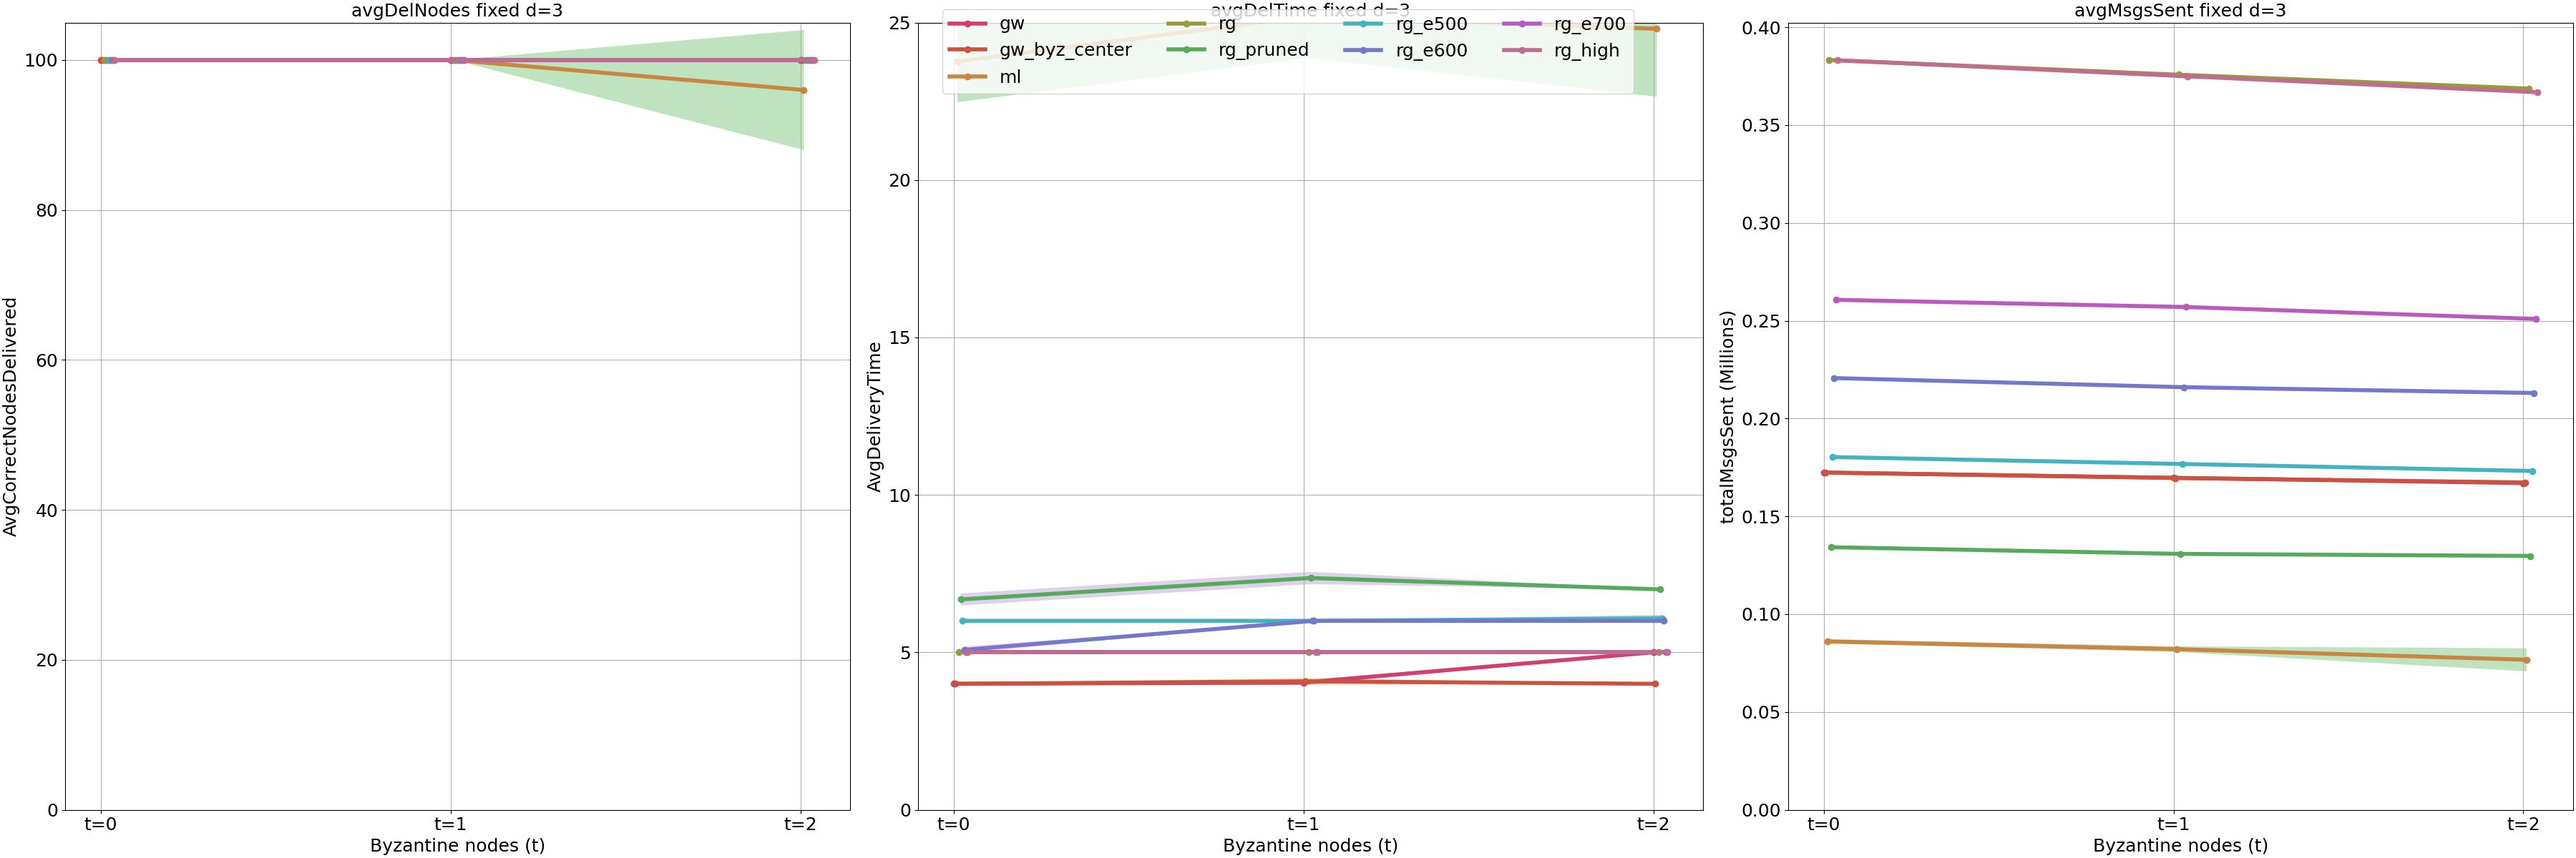
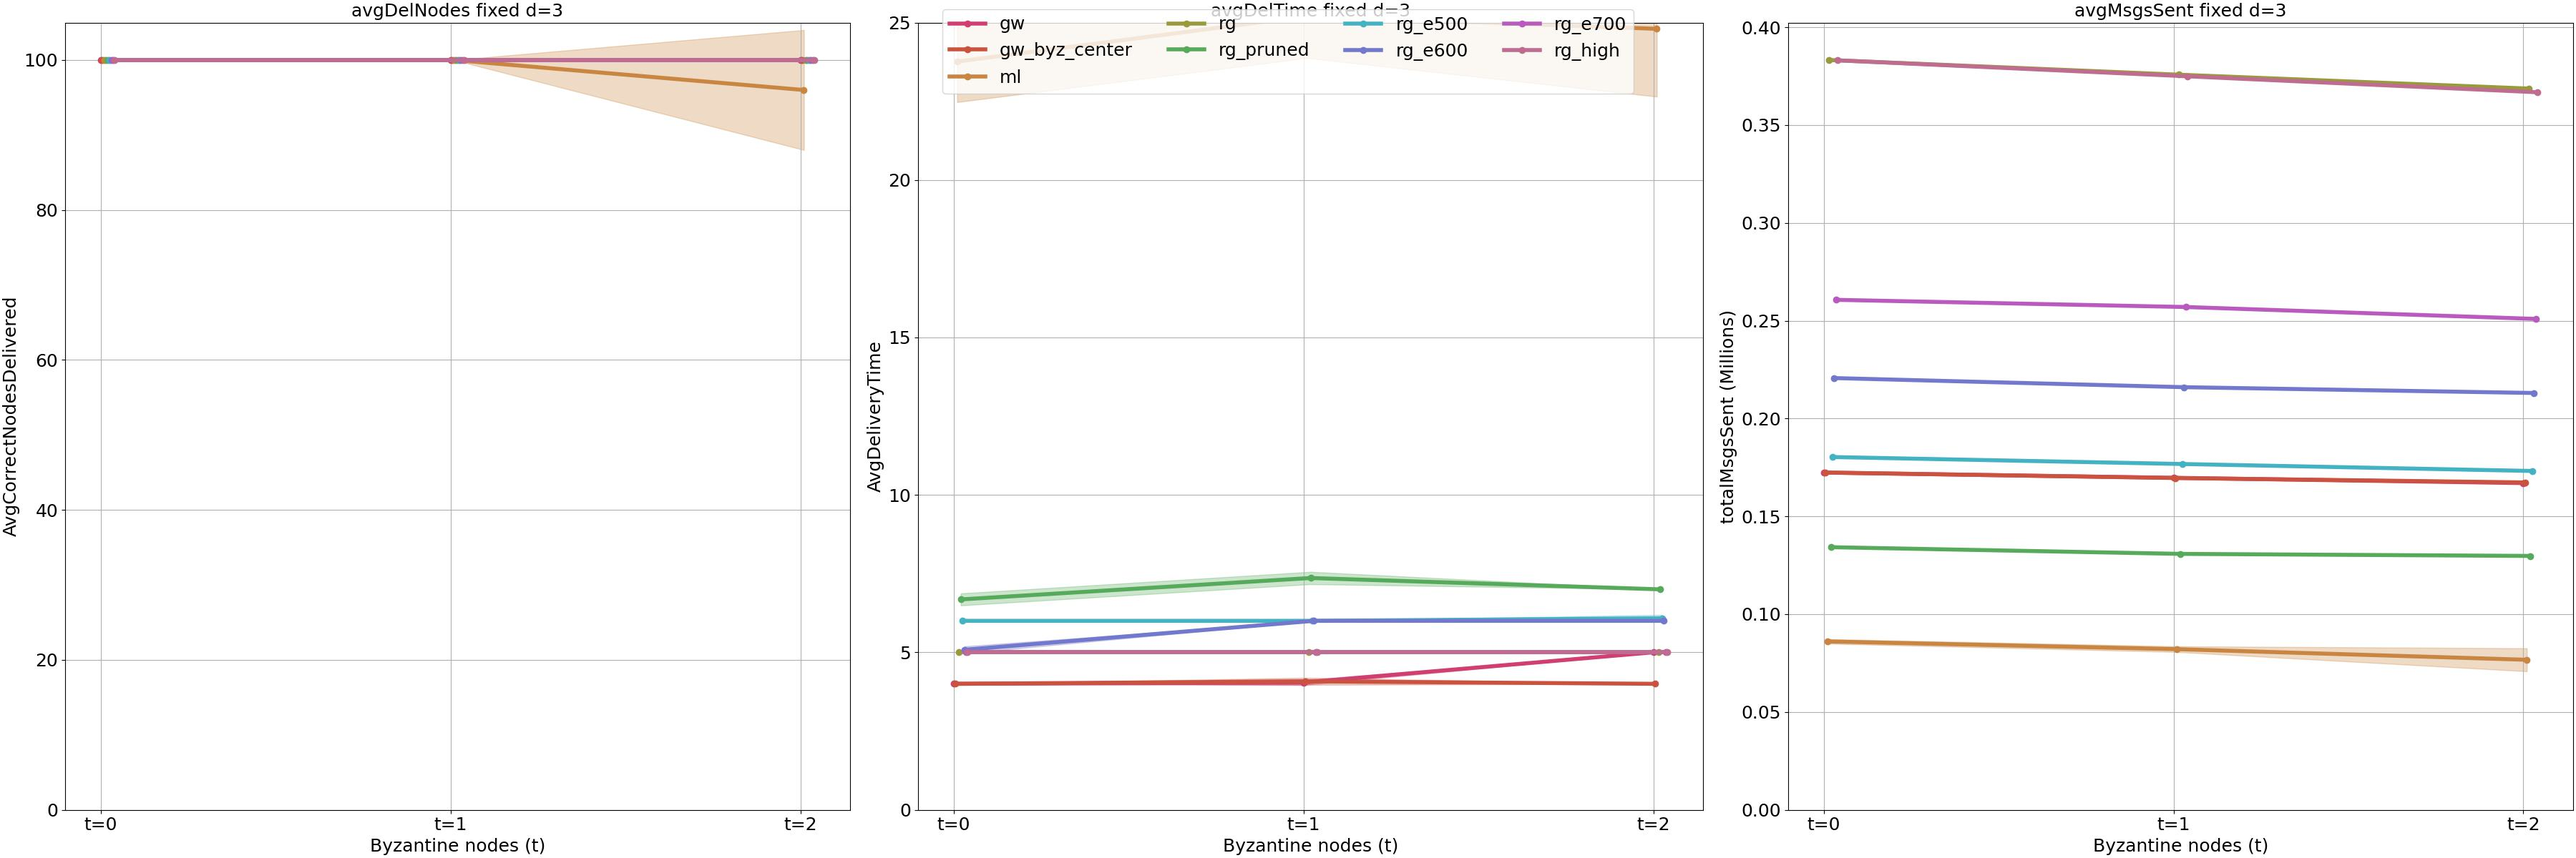
3d plot code

diff --git a/quantas/BRBPeer/evaluation_utils.py b/quantas/BRBPeer/evaluation_utils.py
@@ -243,7 +243,7 @@ def plot_2D(data, ma, alg, t_fix: int = -1, d_fix: int = -1):
         short_name = short_name.replace("random_graph","rg")
         short_name = short_name.replace("_n24_k4","").replace("_n100_k6","").replace("_n99_k6","")
         axs1.plot(x_shifted, y, marker='o', label=f"{short_name}", color=color_map[topology], linewidth=lw)
-        axs1.fill_between(x_shifted, lower_bounds, upper_bounds, alpha=0.3)
+        axs1.fill_between(x_shifted, lower_bounds, upper_bounds, color=color_map[topology], alpha=0.3)
         idx += 1
     
     axs1.set_title(title_delivery, fontsize=fs)
@@ -306,7 +306,7 @@ def plot_2D(data, ma, alg, t_fix: int = -1, d_fix: int = -1):
         short_name = short_name.replace("random_graph","rg")
         short_name = short_name.replace("_n24_k4","").replace("_n100_k6","").replace("_n99_k6","")
         axs1.plot(x_shifted, y, marker='o', label=f"{short_name}", color=color_map[topology], linewidth=lw)
-        axs1.fill_between(x_shifted, lower_bounds, upper_bounds, alpha=0.3)
+        axs1.fill_between(x_shifted, lower_bounds, upper_bounds, color=color_map[topology], alpha=0.3)
         idx += 1
     
     axs1.set_title(title_time, fontsize=fs)
@@ -372,7 +372,7 @@ def plot_2D(data, ma, alg, t_fix: int = -1, d_fix: int = -1):
         short_name = short_name.replace("random_graph","rg")
         short_name = short_name.replace("_n24_k4","").replace("_n100_k6","").replace("_n99_k6","")
         axs1.plot(x_shifted, y, marker='o', label=f"{short_name}", color=color_map[topology], linewidth=lw)
-        axs1.fill_between(x_shifted, lower_bounds, upper_bounds, alpha=0.3)
+        axs1.fill_between(x_shifted, lower_bounds, upper_bounds, color=color_map[topology], alpha=0.3)
         idx += 1
     
     axs1.set_title(title_msg, fontsize=fs)
@@ -476,7 +476,7 @@ def plot_2D_together(data, ma, alg, t_fix:int = -1, d_fix: int = -1):
                                .replace("_n24_k4", "").replace("_n100_k6", "").replace("_n99_k6", "")
 
         axs[0].plot(x_shifted, y, marker='o', label=short_name, color=color_map[topology], linewidth=lw)
-        axs[0].fill_between(x_shifted, lower_bounds, upper_bounds, alpha=0.3)
+        axs[0].fill_between(x_shifted, lower_bounds, upper_bounds, color=color_map[topology], alpha=0.3)
         idx += 1
 
     axs[0].set_title(title_delivery, fontsize=fs)
@@ -528,7 +528,7 @@ def plot_2D_together(data, ma, alg, t_fix:int = -1, d_fix: int = -1):
                              .replace("_n24_k4", "").replace("_n100_k6", "").replace("_n99_k6", "")
 
         axs[1].plot(x_shifted, y, marker='o', label=short_name, color=color_map[topology], linewidth=lw)
-        axs[1].fill_between(x_shifted, lower_bounds, upper_bounds, alpha=0.3)
+        axs[1].fill_between(x_shifted, lower_bounds, upper_bounds, color=color_map[topology], alpha=0.3)
         idx += 1
 
     axs[1].set_title(title_time, fontsize=fs)
@@ -586,7 +586,7 @@ def plot_2D_together(data, ma, alg, t_fix:int = -1, d_fix: int = -1):
                              .replace("_n24_k4", "").replace("_n100_k6", "").replace("_n99_k6", "")
 
         axs[2].plot(x_shifted, y, marker='o', label=short_name, color=color_map[topology], linewidth=lw)
-        axs[2].fill_between(x_shifted, lower_bounds, upper_bounds, alpha=0.3)
+        axs[2].fill_between(x_shifted, lower_bounds, upper_bounds, color=color_map[topology], alpha=0.3)
         idx += 1
 
     axs[2].set_title(title_msg, fontsize=fs)
@@ -616,7 +616,109 @@ def plot_2D_together(data, ma, alg, t_fix:int = -1, d_fix: int = -1):
 #-----------------------------------------------------------------------------------------------------------------------------
 
 
-for d in range(6):
+#-----------------------------------------------------------------------------------------------------------------------------
+def get_3D_matrix(data, ma, alg, topology):
+    k = 6    
+    short_name = topology.replace("multi_wheel", "ml") \
+                            .replace("generalized_wheel_center", "gwc") \
+                            .replace("generalized_wheel", "gw") \
+                            .replace("diamond", "d") \
+                            .replace("pasted_tree", "pt") \
+                            .replace("random_graph_pruned", "rg_pruned") \
+                            .replace("random_graph_n100_k6_byz_high_conn", "rg_high_n100_k6") \
+                            .replace("random_graph", "rg") \
+                            .replace("_n24_k4", "").replace("_n100_k6", "").replace("_n99_k6", "")
+                            
+    d_del = [[0 for i in range(k)] for j in range(k)]
+    d_time = [[0 for i in range(k)] for j in range(k)]
+    d_msg = [[0 for i in range(k)] for j in range(k)]
+    for t in range(k):
+        for d in range(k):
+            if t+d>k-1:
+                d_del[t][d] = None
+                d_time[t][d] = None
+                d_msg[t][d] = None
+    
+    matrix = data[topology][ma][alg]
+    
+    for t in sorted(matrix.keys()):
+        for d in sorted(matrix[t]):
+            d_del[t][d] = matrix[t][d]["del"][0][0]
+            d_time[t][d] = matrix[t][d]["time"][0][0]
+            d_msg[t][d] = matrix[t][d]["msg"][0][0] / 1_000_000
+            
+    d_del = np.asarray(d_del, dtype=float)
+    d_time = np.asarray(d_time, dtype=float)
+    d_msg = np.asarray(d_msg, dtype=float)  
+    
+    return d_del, d_time, d_msg, short_name
+        
+#-----------------------------------------------------------------------------------------------------------------------------
+
+
+#-----------------------------------------------------------------------------------------------------------------------------
+def plot_3D(data, ma, alg, plot_type):
+    # Create t and d axes (0 to 5)
+    k = 6
+    t = np.arange(k)
+    d = np.arange(k)
+    T, D = np.meshgrid(t, d)  # Build 2D grids for t and d
+
+    # Build the plot
+    fig = plt.figure(figsize=(8,8))
+    ax = fig.add_subplot(111, projection='3d')
+    max_val = 0
+    for topology in data.keys():
+        M_del, M_time, M_msg, short_name = get_3D_matrix(data, ma, alg, topology)
+        if (plot_type == "del"):
+            M = M_del 
+            title = "Avg Delivery Nodes (percentage)"
+        if (plot_type == "time"):
+            M = M_time
+            title = "Avg Delivery Time (steps)"
+        if (plot_type == "msg"):
+            M = M_msg
+            title = "Total Msgs Sent (millions)"
+        
+        tmp_val = []
+        for row in M:
+            tmp_val.append(max(row))
+        max_val = max(max_val, max(tmp_val))
+
+        # ensure M is a NumPy array with 2D shape
+        M = np.asarray(M, dtype=float)
+        ax.plot_surface(T, D, M, shade=False, alpha=0.8, label=short_name, color=color_map[topology])
+        
+        
+    ax.set_xlabel('Byzantine nodes (t)', labelpad=20)
+    ax.set_ylabel('Message adversary power (d)', labelpad=20)
+    ax.set_zlabel(title, labelpad=20)
+    ax.set_title(title, y=1.10)
+    ax.legend( loc='upper right', bbox_to_anchor=(1.10, 1), ncol=3)
+    
+    # Set axes limits
+    from matplotlib.ticker import MultipleLocator
+    ax.set_xlim(0, k-1)
+    ax.set_ylim(0, k-1)
+    ax.xaxis.set_major_locator(MultipleLocator(1))
+    ax.yaxis.set_major_locator(MultipleLocator(1))
+    ax.set_zlim(0, max_val*1.1)
+    ax.view_init(elev=10., azim=45)
+    
+    fig.subplots_adjust(left=0.1, right=0.90, bottom=0, top=0.95)
+    out_name = f"{plot_type}_MA{ma}_{alg}_{short_name}.png"
+    plt.savefig(os.path.join("results_img_3d", out_name), dpi=120)
+    plt.close()
+    
+    return
+#-----------------------------------------------------------------------------------------------------------------------------
+
+for ma in [1,2,3]:
+    for alg in ["bracha","opodis_1","opodis_2t+1"]:
+        for plot_type in ["del","time","msg"]:
+            plot_3D(data,ma,alg,plot_type)
+
+for d in [3]:
     plot_2D_together(data,1,"bracha",d_fix=d)
     plot_2D_together(data,1,"opodis_1",d_fix=d)
     plot_2D_together(data,1,"opodis_2t+1",d_fix=d)
